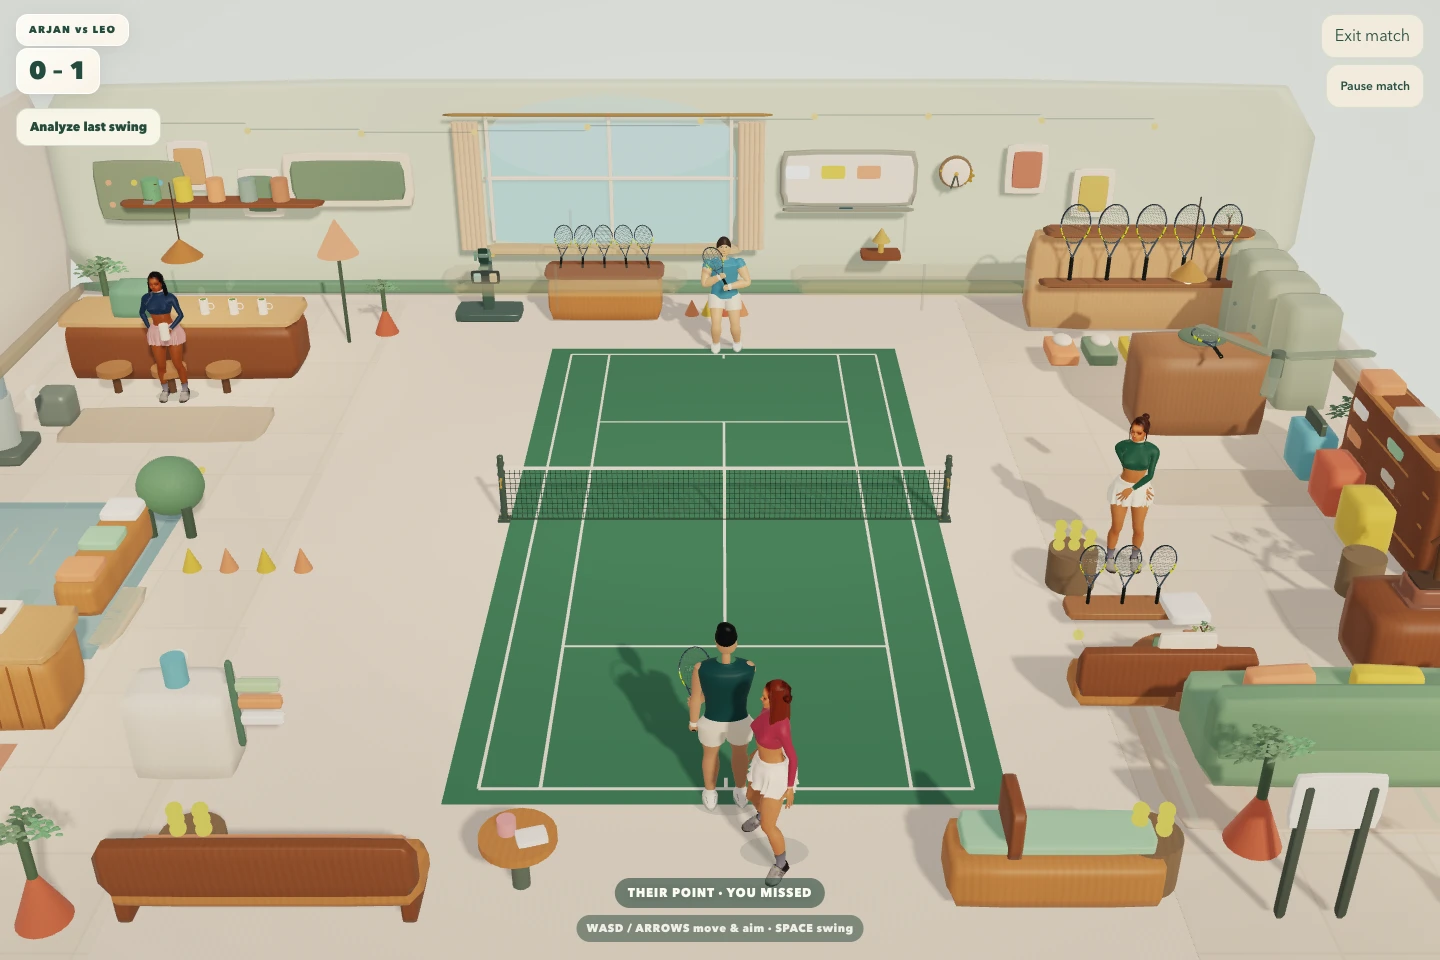
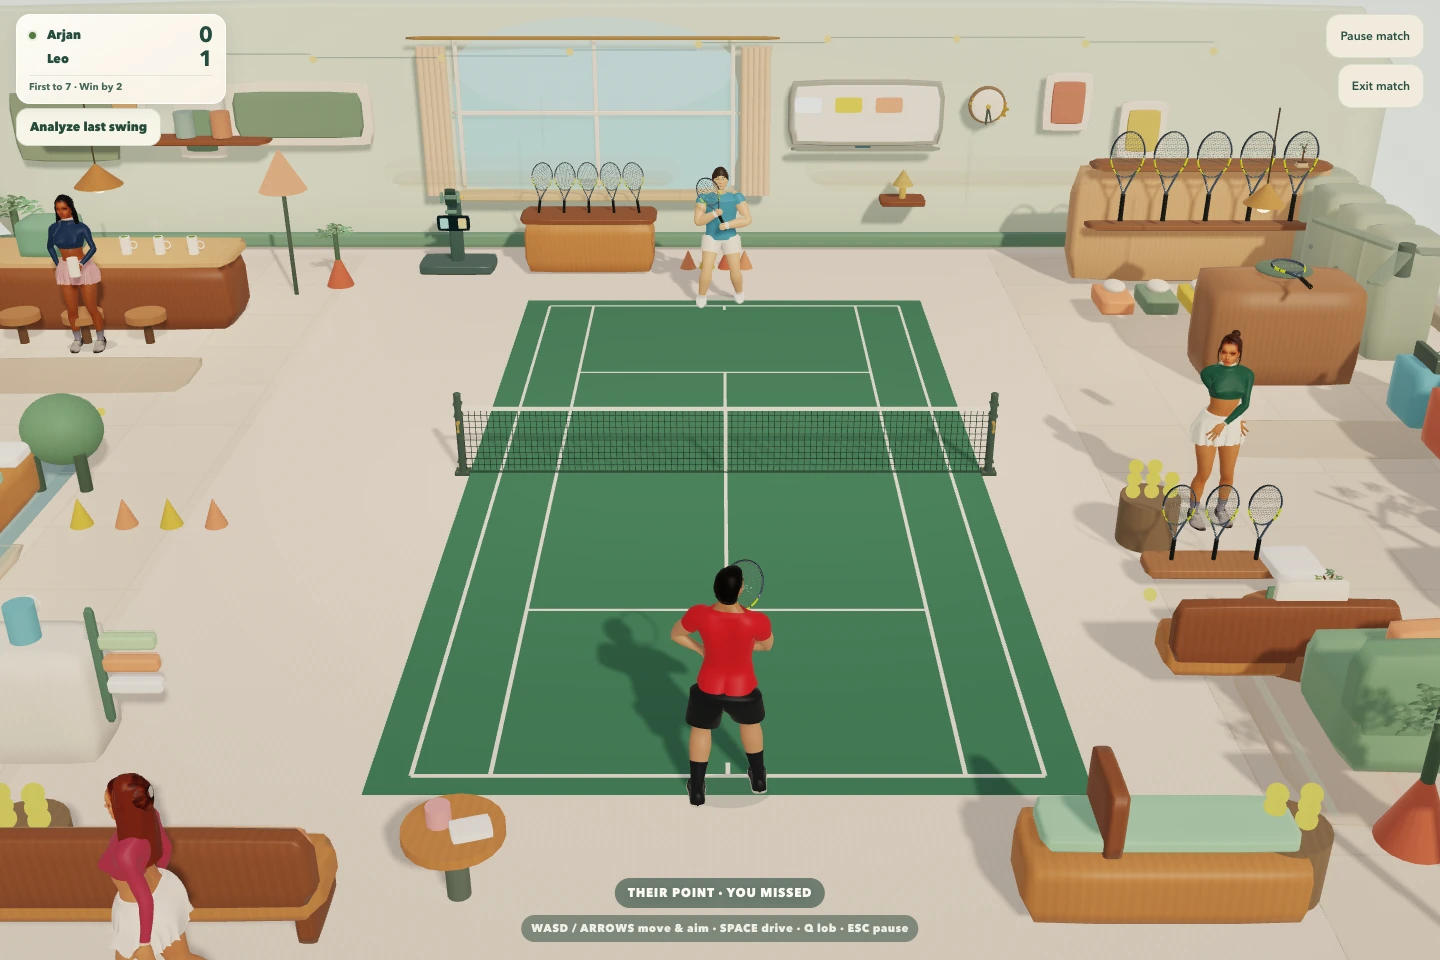
Refresh tennis walkthrough with current gameplay captures

diff --git a/arjan-portfolio/src/app/playground/rally-house/RallyHouseExperience.tsx b/arjan-portfolio/src/app/playground/rally-house/RallyHouseExperience.tsx
@@ -7,10 +7,10 @@ import guide from "./guide-screens.json";
 import styles from "./rally-house.module.css";
 
 const steps = [
-  { title: "Play tennis immediately.", text: "Tap a club member, then choose Challenge to Match.", screen: guide.challenge, alt: "Isometric club view with Challenge to Match highlighted in a member’s menu" },
-  { title: "Championship mode.", text: "Use the touch stick and Swing. On a keyboard: arrows and Space.", screen: guide.championship, alt: "Championship court view with the movement and swing controls highlighted" },
+  { title: "Play tennis immediately.", text: "Choose Play tennis on arrival, or tap a member and choose Challenge to Match.", screen: guide.challenge, alt: "Isometric club view with Challenge to Match highlighted in a member’s menu" },
+  { title: "Championship mode.", text: "Move with the stick or arrow keys. Swing drives; Lob buys recovery time.", screen: guide.championship, alt: "Championship court view with the shot controls highlighted" },
   { title: "Replay your last shot.", text: "After a point, choose Analyze last swing.", screen: guide.analyze, alt: "A completed point with the Analyze last swing button highlighted" },
-  { title: "Analyze your swing like a pro.", text: "Pause, scrub and inspect your joints on the replay.", screen: guide.lab, alt: "The recorded shot in AnatomyMotion with a registered body rig and elbow analysis" },
+  { title: "Analyze your swing like a pro.", text: "Pause and scrub your character’s replay to inspect joint angles.", screen: guide.lab, alt: "Recorded game motion with a registered body rig and simulated elbow angle" },
 ] as const;
 
 export default function RallyHouseExperience() {
@@ -65,7 +65,7 @@ export default function RallyHouseExperience() {
               <Image src={`/rally-house/media/${step.screen.image}`} width={step.screen.width} height={step.screen.height} sizes="(max-width: 800px) 100vw, 70vw" alt={step.alt} />
               {step.screen.callout && <span className={styles.callout} aria-hidden="true" data-testid="screen-callout" style={{ left: `${step.screen.callout.left}%`, top: `${step.screen.callout.top}%`, width: `${step.screen.callout.width}%`, height: `${step.screen.callout.height}%` }} />}
             </div>
-            {i === 3 && <figcaption>VectorCourt × AnatomyMotion · Analysis uses your recorded game motion.</figcaption>}
+            {i === 3 && <figcaption>VectorCourt × AnatomyMotion · Joint angles come from the game’s character rig.</figcaption>}
           </figure>
         </li>)}
       </ol>
@@ -79,7 +79,7 @@ export default function RallyHouseExperience() {
         </div>
         <div className={styles.playerFooter}><span>{playing ? "Live game" : "Starts when you enter"}</span>{playing && <button onClick={fullscreen}>Enter fullscreen ↗</button>}</div>
         {fullscreenMessage && <p role="status">{fullscreenMessage}</p>}
-        <p className={styles.controls} id="rally-house-controls"><span><strong>Club</strong> Tap to walk and interact.</span><span><strong>Court</strong> WASD / arrows · Space to swing.</span><span><strong>Touch</strong> Stick + Swing.</span></p>
+        <p className={styles.controls} id="rally-house-controls"><span><strong>Club</strong> Tap to walk and interact.</span><span><strong>Court</strong> WASD / arrows · Space: drive · Q: lob.</span><span><strong>Touch</strong> Left stick to move · Swing or Lob on the right.</span></p>
       </div>
     </section>
     <footer className={`shell ${styles.colophon}`}>Built by Arjan Singh Puniani · All screens captured from the game.</footer>

diff --git a/arjan-portfolio/src/app/playground/rally-house/page.tsx b/arjan-portfolio/src/app/playground/rally-house/page.tsx
@@ -4,14 +4,14 @@ import RallyHouseExperience from "./RallyHouseExperience";
 
 export const metadata: Metadata = {
   title: "Rally House — The Sims meets Mario Tennis",
-  description: "Build your club, challenge a member, play Championship tennis and analyze your recorded swing.",
+  description: "Build your club, challenge a member, play Championship tennis and analyze your recorded in-game swing.",
   alternates: { canonical: "/playground/rally-house" },
   openGraph: {
     type: "website", url: `${siteUrl}/playground/rally-house`,
     title: "Rally House | Arjan Singh Puniani",
-    description: "The Sims meets Mario Tennis. Play a point, then analyze your swing.",
+    description: "The Sims meets Mario Tennis. Play a point, then replay your character’s swing.",
     images: [{ url: "/rally-house/media/guide-club.webp", width: 1440, height: 960, alt: "Actual Rally House gameplay in a living miniature tennis club" }],
   },
-  twitter: { card: "summary_large_image", title: "Rally House | Arjan Singh Puniani", description: "The Sims meets Mario Tennis. Play a point, then analyze your swing.", images: ["/rally-house/media/guide-club.webp"] },
+  twitter: { card: "summary_large_image", title: "Rally House | Arjan Singh Puniani", description: "The Sims meets Mario Tennis. Play a point, then replay your character’s swing.", images: ["/rally-house/media/guide-club.webp"] },
 };
 export default function RallyHousePage() { return <RallyHouseExperience />; }

diff --git a/rally-house-source-v16/evidence/reviewer-walkthrough-20261123/README.md b/rally-house-source-v16/evidence/reviewer-walkthrough-20261123/README.md
@@ -1,0 +1,31 @@
+# Tennis-first walkthrough review · 23 November 2026
+
+The user reports testers kept playing, shared Rally House with friends and requested broader social activities. These are secondhand observations without participant counts or timings. The user wants tennis to remain the focus. The playtest protocol records that direction; no new social mechanics were added.
+
+## Changes
+
+- Replaced five outdated walkthrough images with captures of the current feature build: isometric club, member challenge, serve contact, completed point and recorded swing analysis.
+- Championship highlights both Swing and Lob. The existing capture helper computes their combined bounds.
+- Instructions include immediate Play tennis entry, drive/lob controls and recovery purpose. Replay copy and metadata explicitly describe the character's in-game motion and rig-derived angles.
+- Preserved the approved headline, four-step layout and gameplay.
+
+## Verification
+
+- `capture/capture.json`: actual Championship recording, player and opponent contact callbacks, 146 samples, zero rig offset; no browser errors. Replay hides ambient actors and restores them without moving them.
+- `verification.json`: desktop Chromium 1440×900; touch-emulated WebKit 402×874 and 320×740. All six image instances loaded, three callouts stayed inside their images, no horizontal overflow or browser errors. Desktop opens the embedded game; touch opens the full-page game.
+- Five existing Rally House component tests passed. The first run failed because linked local dependencies contain Vitest 4.0.8 while the repository expects 4.1.12 and configures OXC. A temporary config used equivalent automatic JSX with esbuild, the same jsdom environment, setup, alias and worker settings. No dependency or project configuration was changed.
+- Targeted ESLint and `git diff --check` passed.
+- First browser verification waited for lazy images without scrolling through them and timed out; the final script scrolls and decodes every image before asserting. Full-page captures wait for instant return to page top.
+
+## Limits and recommendation
+
+Ready for a further tennis-focused preview session. This does not establish an objective rating, admissions outcome or independently measured player retention. No physical iPhone, battery, heat or audio listening test was performed. No full production build or deployment was performed. Game code is unchanged from the previous WebKit smoothness fix; its ten-minute results remain documented in `../../docs/gameplay-excellence-20261122/WEBKIT-SMOOTHNESS.md` rather than being counted as a new run here.
+
+Reproduce from the game root using the installed Playwright module:
+
+```sh
+PLAYWRIGHT_MODULE=/path/to/playwright/index.mjs node qa/landing-walkthrough.mjs http://127.0.0.1:18132 evidence/reviewer-walkthrough-20261123/capture
+PLAYWRIGHT_MODULE=/path/to/playwright/index.mjs node evidence/reviewer-walkthrough-20261123/verify.mjs
+```
+
+The second command expects the isolated portfolio development server on port 18133. Screenshots contain development-server chrome where present.

diff --git a/rally-house-source-v16/docs/gameplay-excellence-20261122/PLAYTEST.md b/rally-house-source-v16/docs/gameplay-excellence-20261122/PLAYTEST.md
@@ -2,7 +2,11 @@
 
 ## Status
 
-Arjan can arrange 3–5 people who have never played Rally House. No participant results have been collected. Run each person separately on a fresh preview save. Do not give them the mechanic matrix or the intended findings before play.
+Arjan can arrange 3–5 people who have never played Rally House. On 23 November, Arjan reported that testers kept playing, shared the game with friends and asked for more Sims-like activities, including flirting and choosing conversation topics. This is encouraging secondhand feedback. Participant counts, timing, build identifiers and session observations have not been supplied; no target below is marked achieved from this report alone.
+
+Arjan's stated direction remains tennis first. Treat requests for broader social features as optional research, not an approved expansion into a dating or conversation simulator. Prioritize clear tennis controls, readable points and satisfying rematches; any future social experiment should support those activities.
+
+For structured follow-up, run each person separately on a fresh preview save. Do not give them the mechanic matrix or the intended findings before play.
 
 ## Participant instruction — read only this
 
